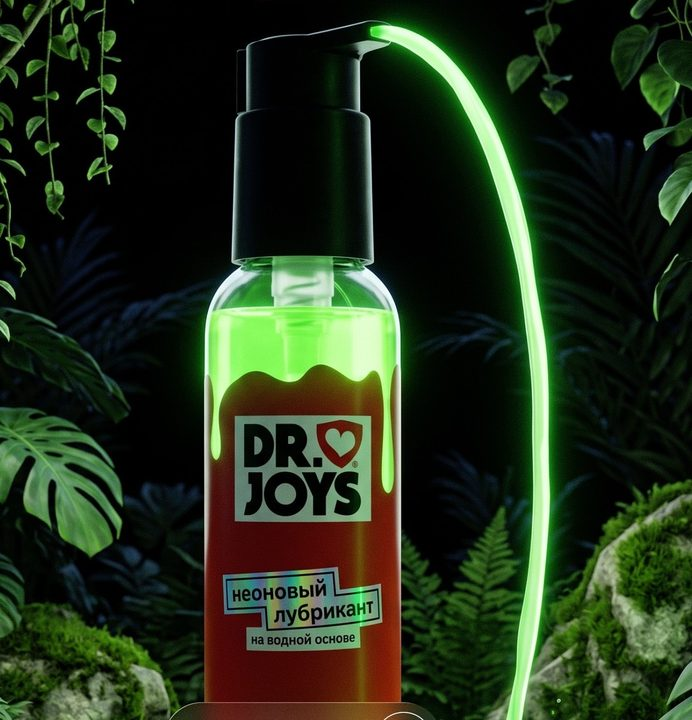
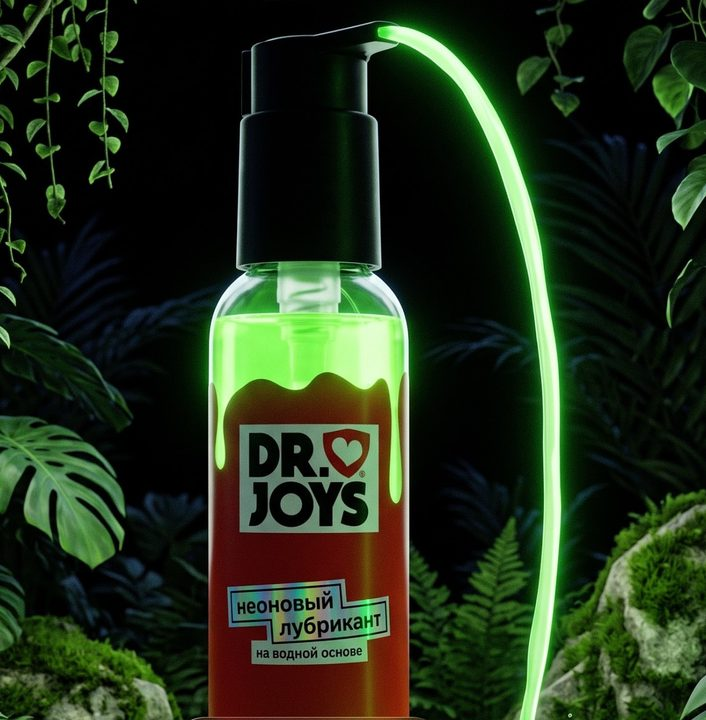
Карточки: мягкий край фото игры, неон без обрезка кнопки

diff --git a/docs/index.html b/docs/index.html
@@ -107,6 +107,7 @@ a{color:inherit;text-decoration:none;-webkit-tap-highlight-color:transparent}
 
 .game{background:#eaeceb;color:#000}
 .game .pic{width:46%;height:calc(100% - 72px);object-fit:contain;object-position:center 70%}
+.game .pic{-webkit-mask-image:radial-gradient(75% 70% at 55% 60%,#000 60%,transparent);mask-image:radial-gradient(75% 70% at 55% 60%,#000 60%,transparent)}
 .game p{color:rgba(0,0,0,.66)}
 
 .condoms{background:#fff;color:#000}

diff --git a/site/index.html b/site/index.html
@@ -107,6 +107,7 @@ a{color:inherit;text-decoration:none;-webkit-tap-highlight-color:transparent}
 
 .game{background:#eaeceb;color:#000}
 .game .pic{width:46%;height:calc(100% - 72px);object-fit:contain;object-position:center 70%}
+.game .pic{-webkit-mask-image:radial-gradient(75% 70% at 55% 60%,#000 60%,transparent);mask-image:radial-gradient(75% 70% at 55% 60%,#000 60%,transparent)}
 .game p{color:rgba(0,0,0,.66)}
 
 .condoms{background:#fff;color:#000}

diff --git a/tools/crop.py b/tools/crop.py
@@ -7,7 +7,7 @@ SRC, OUT, OG = ROOT / "src", ROOT / "site" / "assets", ROOT / "build" / "og-src"
 
 # доли от размера исходника: (left, top, right, bottom); исходники разного разрешения
 CARDS = {
-    "neon": ("neon-jungle.jpg", (0.173, 0.322, 0.92, 0.905)),
+    "neon": ("neon-jungle.jpg", (0.173, 0.322, 0.92, 0.893)),
     "game": ("game-light.jpg", (0.173, 0.29, 0.84, 0.80)),
     "aqua": ("aqua.jpg", (0.16, 0.328, 0.96, 0.905)),
     "berry": ("berry.jpg", (0.16, 0.328, 0.96, 0.905)),
@@ -15,7 +15,7 @@ CARDS = {
 }
 # квадраты под обложки 1080×1080: вырезаем без надписей, которые зашиты в фото
 SQUARES = {
-    "neon": ("neon-jungle.jpg", (0.104, 0.33, 0.895, 0.905)),
+    "neon": ("neon-jungle.jpg", (0.104, 0.33, 0.895, 0.893)),
     "kaspi": ("game-light.jpg", (0.153, 0.28, 0.847, 0.80)),
     "berry": ("berry.jpg", (0.133, 0.33, 0.9, 0.905)),
     "aqua": ("aqua.jpg", (0.133, 0.33, 0.9, 0.905)),
